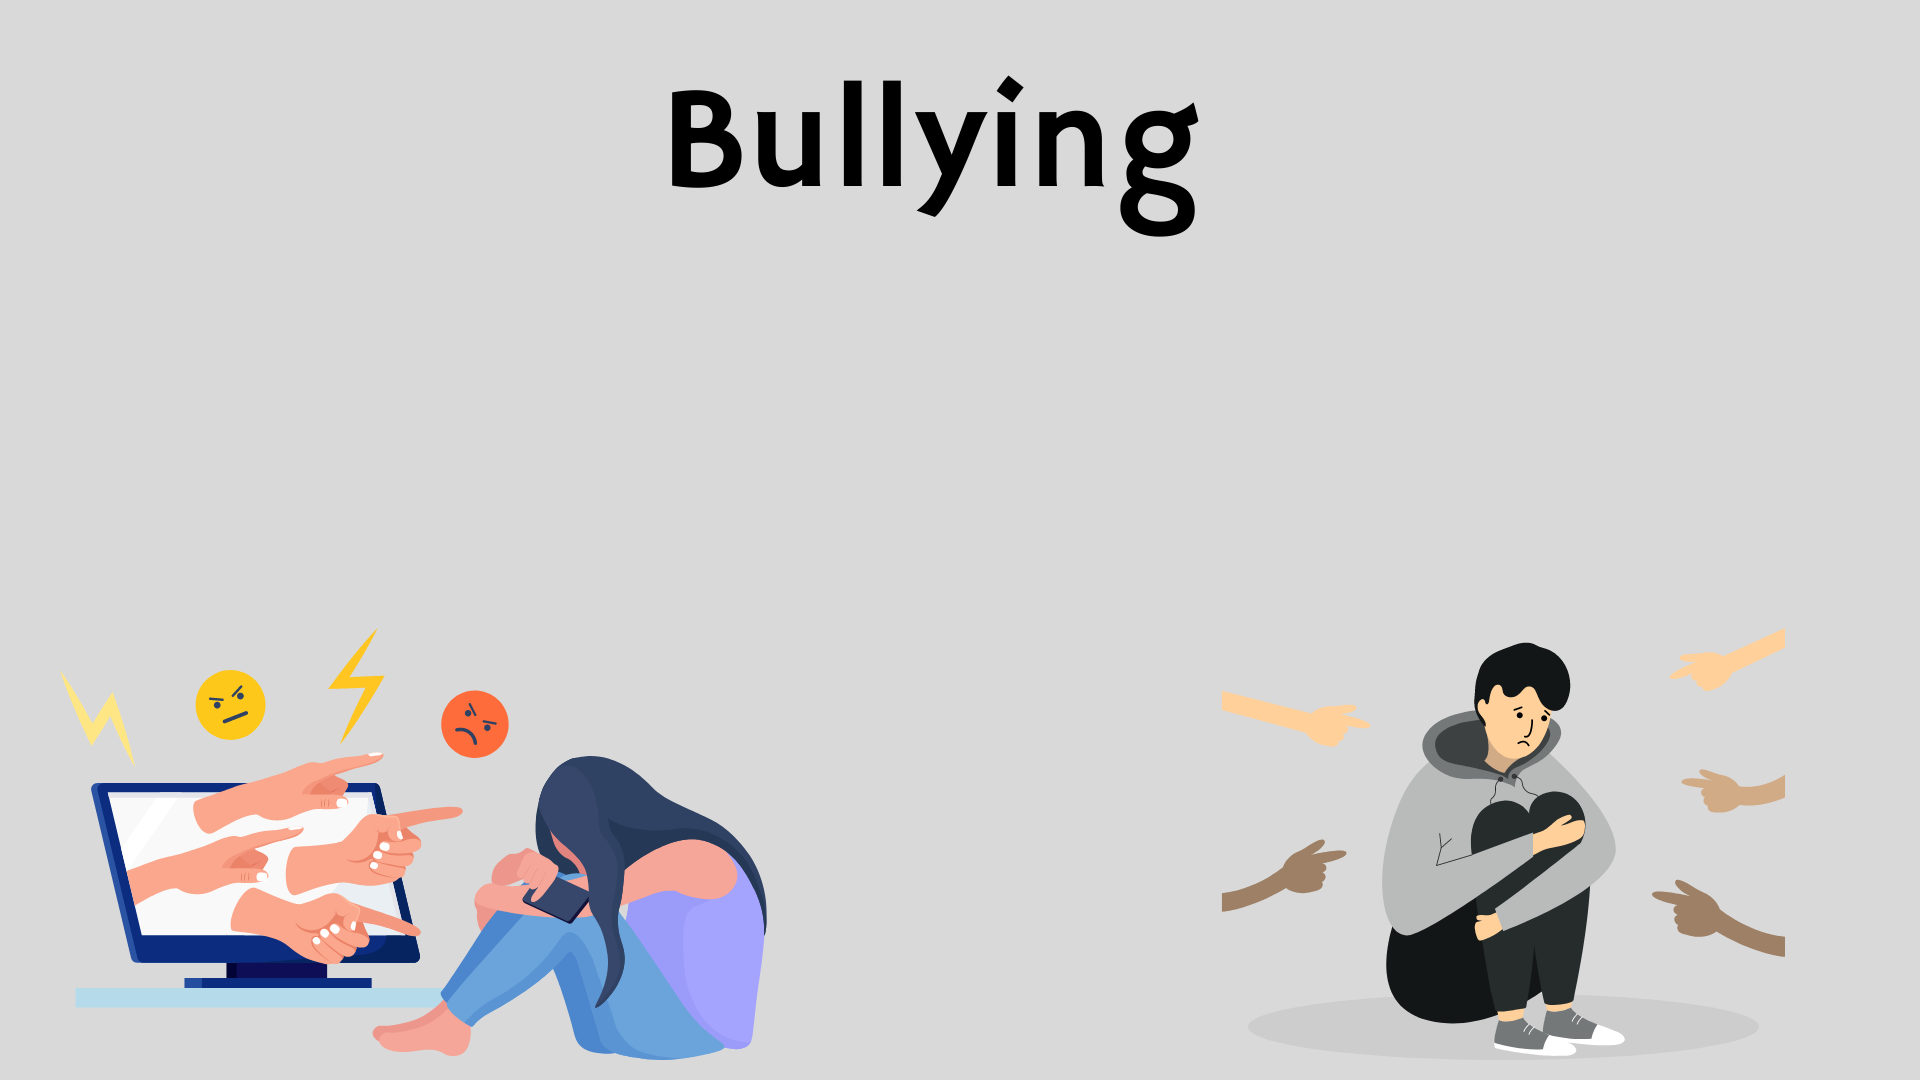
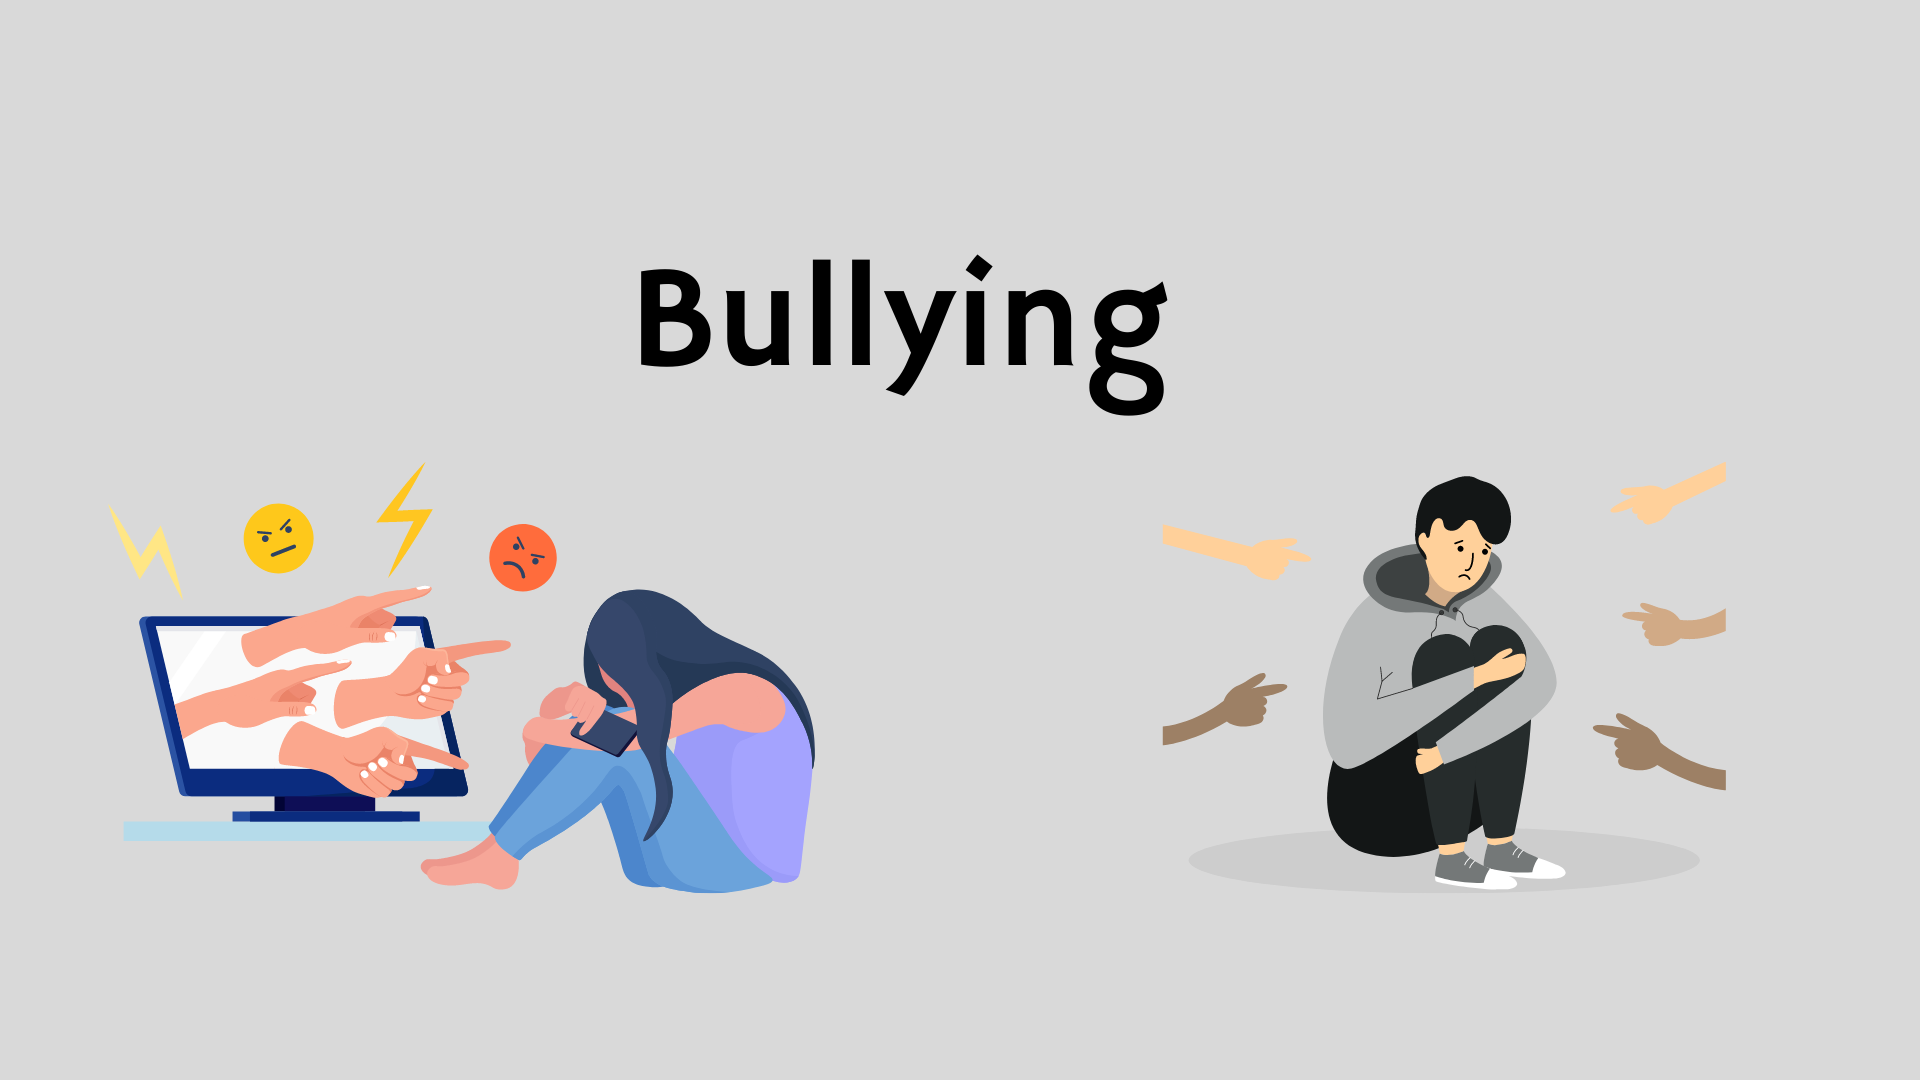
Changes

diff --git a/src/page/index.html b/src/page/index.html
@@ -9,20 +9,21 @@
         <!-- Favicon-->
         <link rel="icon" type="image/x-icon" href="assets/favicon.ico" />
         <!-- Core theme CSS (includes Bootstrap)-->
-        <link href="css/styles.css" rel="stylesheet" />
+        <link href="styles.css" rel="stylesheet" />
     </head>
     <body>
         <!-- Navigation-->
         <nav class="navbar navbar-expand-lg navbar-dark bg-dark fixed-bottom">
             <div class="container px-4 px-lg-5">
-                <a class="navbar-brand" href="#!">Start Bootstrap</a>
+                <a class="navbar-brand" href=""></a>
                 <button class="navbar-toggler" type="button" data-bs-toggle="collapse" data-bs-target="#navbarResponsive" aria-controls="navbarResponsive" aria-expanded="false" aria-label="Toggle navigation"><span class="navbar-toggler-icon"></span></button>
                 <div class="collapse navbar-collapse" id="navbarResponsive">
                     <ul class="navbar-nav ml-auto">
-                        <li class="nav-item active"><a class="nav-link" href="#!">Home</a></li>
-                        <li class="nav-item"><a class="nav-link" href="#!">About</a></li>
-                        <li class="nav-item"><a class="nav-link" href="#!">Services</a></li>
-                        <li class="nav-item"><a class="nav-link" href="#!">Contact</a></li>
+                        <li class="nav-item active"><a class="nav-link" href="https://sites.google.com/aebatalha.ccems.pt/physicalbullying/p%C3%A1gina-inicial">Physical Bullying</a></li>
+                        <li class="nav-item"><a class="nav-link" href="https://sites.google.com/aebatalha.ccems.pt/verbal-bullying/p%C3%A1gina-inicial">Verbal Bullying</a></li>
+                        <li class="nav-item"><a class="nav-link" href="https://sites.google.com/aebatalha.ccems.pt/stopbullying/introduction?pli=1&authuser=3">Different Types of Bullying</a></li>
+                        <li class="nav-item"><a class="nav-link" href="https://sites.google.com/aebatalha.ccems.pt/bullying-what-is-it/home">What's Bullying?</a></li>
+                        <li class="nav-item"><a class="nav-link" href="https://cyberbullying.lyepedro.studio/">Cyberbullying</a></li>
                     </ul>
                 </div>
             </div>
@@ -31,10 +32,7 @@
         <section>
             <div class="container px-4 px-lg-5">
                 <div class="row gx-4 gx-lg-5">
-                    <div class="col-lg-6">
-                        <h1 class="mt-5">The Big Picture</h1>
-                        <p>Lorem ipsum dolor sit amet, consectetur adipisicing elit. Deserunt voluptates rerum eveniet sapiente repellat esse, doloremque quod recusandae deleniti nostrum assumenda vel beatae sed aut modi nesciunt porro quisquam voluptatem.</p>
-                    </div>
+                    
                 </div>
             </div>
         </section>

diff --git a/src/page/index.js b/src/page/index.js
@@ -1,0 +1,21 @@
+const express = require('express');
+const app = express()
+const port = process.env.PORT || 3000;
+
+//Rota para o sub dominio esp [Sub dominio principal]
+
+datarouter.get('/home/css', function(req, res){
+    res.sendFile(path.join(__dirname, 'index.html'));
+});
+
+datarouter.get('/home/css', function(req, res){
+    res.sendFile(path.join(__dirname, 'style.css'));
+});
+
+datarouter.get('/imgsrc/:imagesrc', function(req, res){
+    res.sendFile(path.join(__dirname, '/img/' + req.params.imagesrc));
+});
+
+app.listen(port, () => {
+  console.log(`Site rodando na porta port ${port}`)
+})

diff --git a/src/page/styles.css b/src/page/styles.css
@@ -11287,6 +11287,6 @@ textarea.form-control-lg {
   }
 }
 body {
-  background: url("https://dummyimage.com/1920x1080/dee2e6/6c757d.jpg") no-repeat center center fixed;
+  background: url("img/bullying.png") no-repeat center center fixed;
   background-size: cover;
 }
